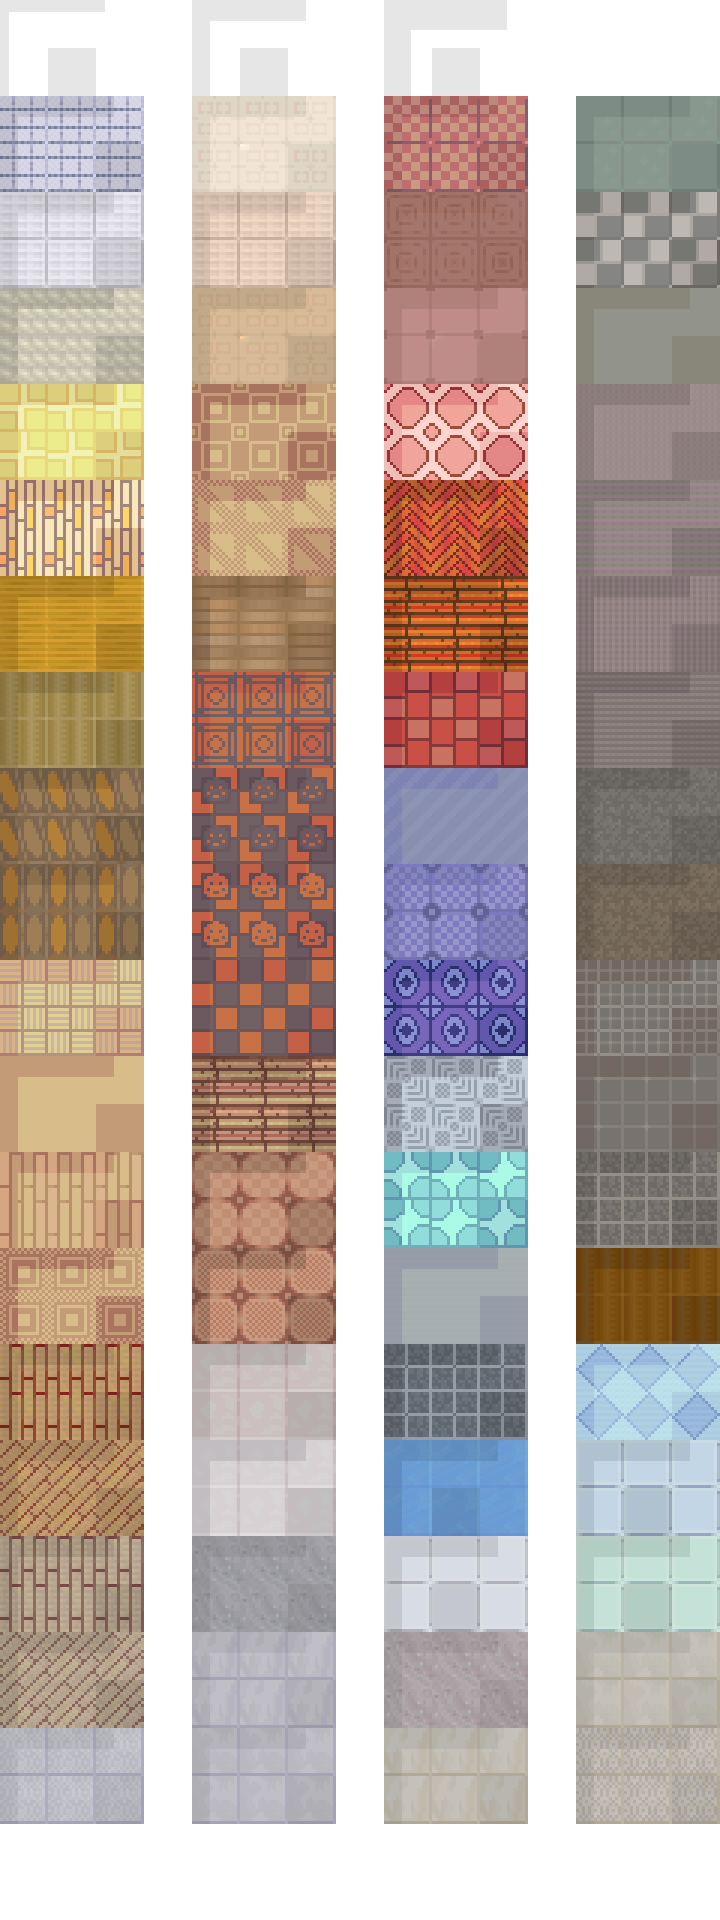
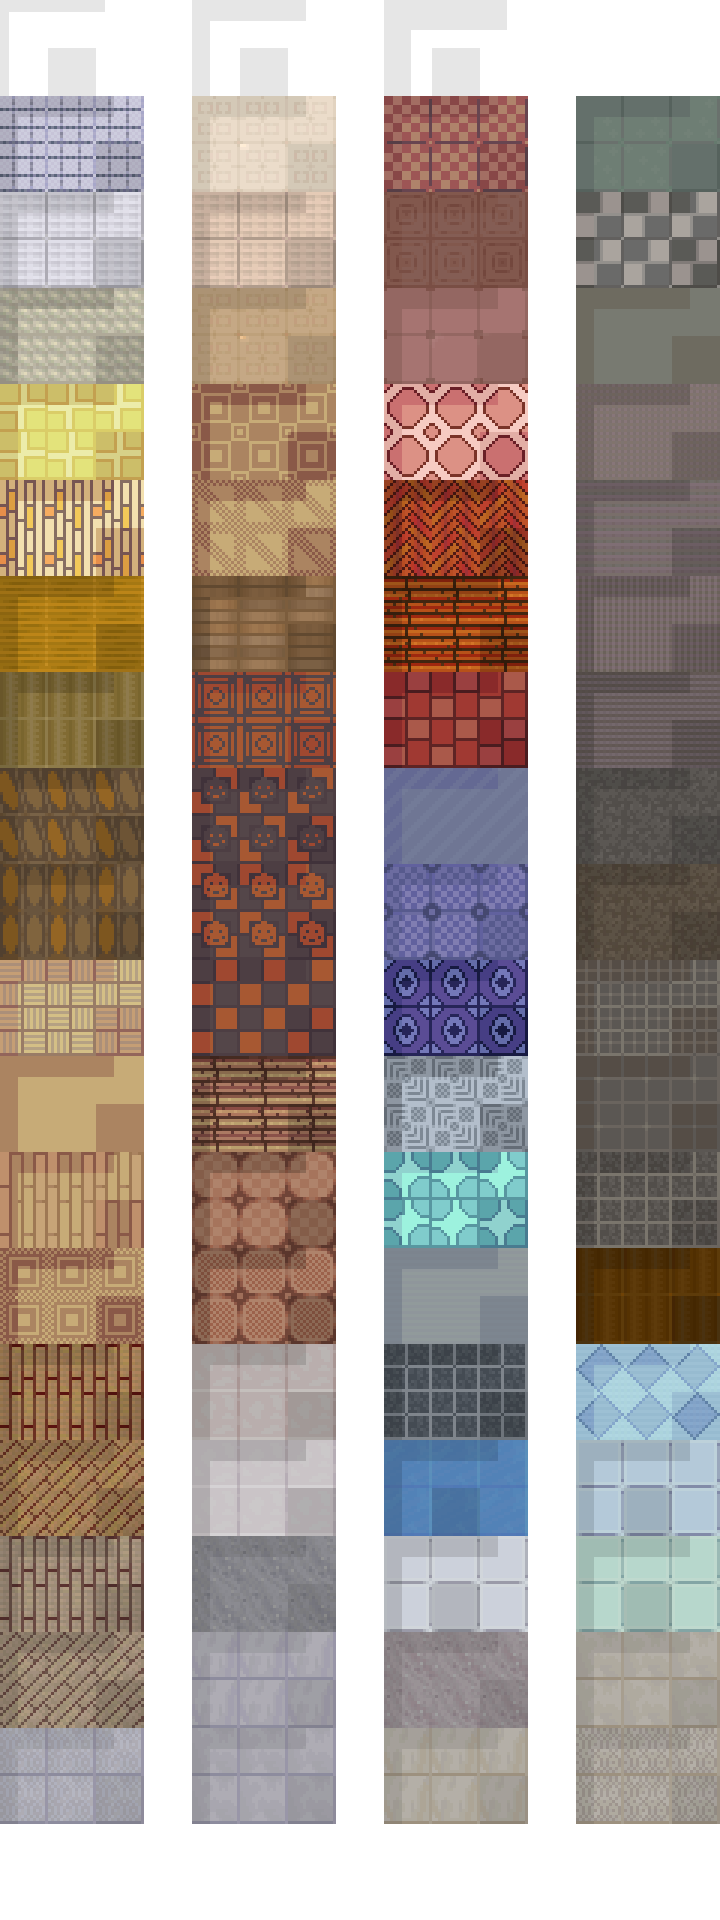
Pawn Run: interiors graded darker and more contrasty (luma gamma 1.35, chroma x1.7; furniture contrast x1.3)

diff --git a/games/pawnrun/tools/interior_color.py b/games/pawnrun/tools/interior_color.py
@@ -2,7 +2,7 @@
 
 Measured (HSV, opaque pixels with saturation >= 0.12, median): Tiny Swords hero 0.38, terrain 0.40, all art 0.44;
 Modern Interiors floors/walls 0.28, House A 0.30 (the Shadowless furniture crops are already 0.55, so they are left alone).
-The grade scales chroma by SAT about the pixel's luma, so hue and brightness stay; SAT 1.5 of chroma is about 1.4x HSV saturation
+The grade bends luma by GAMMA, then scales chroma by SAT about the luma (see grade()). Earlier: SAT 1.5 alone (House A median sat 0.30 -> 0.42).
 (House A median 0.30 -> 0.42). Brightness is left alone: the interiors are ~0.05 brighter (V median 0.67 vs 0.59-0.62), but darkening
 turns the white wall rims grey, which is worse.
 
@@ -12,11 +12,16 @@ second run can never grade twice. Never import this to re-grade a file in assets
 import numpy as np
 from PIL import Image
 
-SAT = 1.5
+SAT = 1.7       # chroma about luma (user, 2026-10-21: "still dont look contrasty and saturated enough")
+GAMMA = 1.35    # luma curve: House A's median luma 162 -> ~135 (Tiny Swords 130) while white stays white and black stays black
+# Measured luma std (contrast) over opaque pixels: Tiny Swords 64, House A 51, walls+floors 58, furniture crops 40.
 
-def grade(im):
+def grade(im, sat=SAT, gamma=GAMMA, con=1.0):
+    """gamma on luma (keeps each pixel's hue and saturation), then con = linear contrast about 128, then sat = chroma scale."""
     a = np.array(im.convert("RGBA")).astype(float)
     rgb = a[..., :3]
     luma = (rgb * [0.299, 0.587, 0.114]).sum(-1, keepdims=True)
-    a[..., :3] = np.clip(luma + (rgb - luma) * SAT, 0, 255)
+    l2 = 128 + (255 * (luma / 255) ** gamma - 128) * con
+    rgb = rgb * np.where(luma > 0, l2 / np.maximum(luma, 1e-6), 1)
+    a[..., :3] = np.clip(l2 + (rgb - l2) * sat, 0, 255)
     return Image.fromarray(np.rint(a).astype(np.uint8), "RGBA")

diff --git a/games/pawnrun/tools/make_room.py b/games/pawnrun/tools/make_room.py
@@ -55,7 +55,7 @@ n_floors = sheet_tsj("room_floors", FLOORS, False)
 
 # ---- furniture ------------------------------------------------------------------------------------------------------
 # name: (sheet, col0, row0, col1, row1 (exclusive), collision (x, y, w, h) in the cropped image, depth property)
-# The crop is trimmed to its opaque pixels. Not graded: the Shadowless pieces already match the Tiny Swords saturation (median 0.55 vs 0.52). Collision follows the base: wall pieces block their whole floor depth.
+# The crop is trimmed to its opaque pixels. Contrast only (luma std 40 vs Tiny Swords 64): the Shadowless pieces already match the Tiny Swords saturation (median 0.55 vs 0.52). Collision follows the base: wall pieces block their whole floor depth.
 PIECES = {
     "bed":        ("4_Bedroom",  9, 0, 11, 4,  lambda w, h: (0, 24, w, h - 24), None),
     "armoire":    ("2_LivingRoom", 7, 4, 9, 7, lambda w, h: (2, h - 48, w - 4, 48), None),
@@ -71,7 +71,7 @@ PIECES = {
 tiles, size = [], {}
 for i, (name, (sh, c0, r0, c1, r1, col, depth)) in enumerate(PIECES.items()):
     im = Image.open(SORT / f"{sh}_Shadowless_48x48.png").convert("RGBA").crop((c0 * T, r0 * T, c1 * T, r1 * T))
-    im = im.crop(im.getbbox()); im.save(OUT / "furniture" / f"{name}.png"); size[name] = im.size
+    im = im.crop(im.getbbox()); grade(im, sat=1, gamma=1, con=1.3).save(OUT / "furniture" / f"{name}.png"); size[name] = im.size
     t = {"id": i, "image": f"../assets/interiors/furniture/{name}.png", "imagewidth": im.width, "imageheight": im.height}
     if depth: t["properties"] = [prop("depth", depth)]
     if col: t["objectgroup"] = collision([col(*im.size)])
